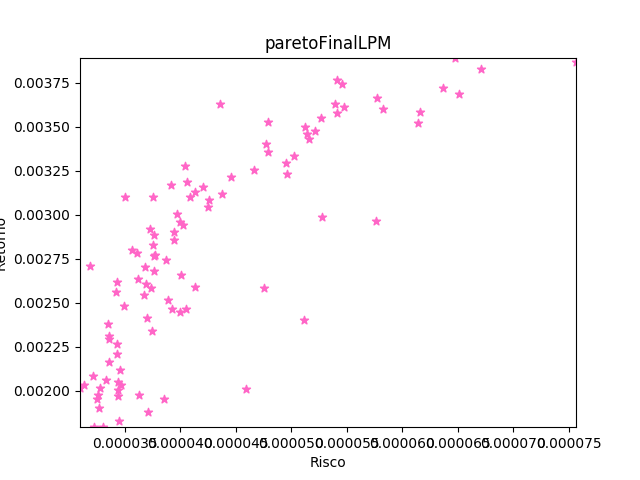
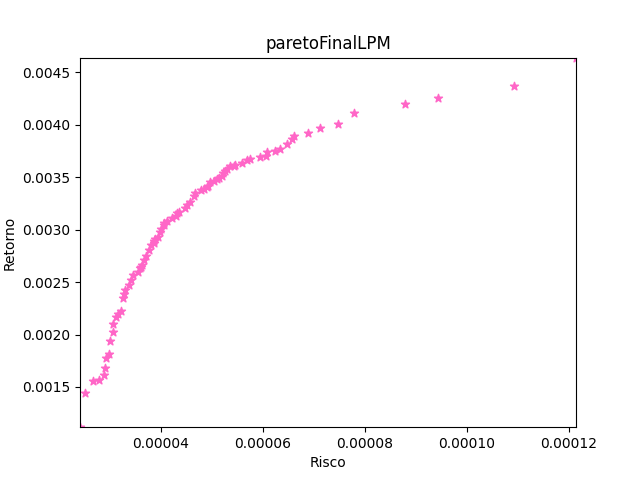
pareto gui

diff --git a/direto/nsga2.py b/direto/nsga2.py
@@ -38,17 +38,15 @@ def main():
     solucao_final = []
   
     #pontos = [cvar, var, ewma, garch, lpm]
-    
-    for i in range(QUANTIDADE_METRICAS):
-        pontos_x.append([])
-        pontos_y.append([])
-        solucao_final.append(None)
 
     for risco in range(QUANTIDADE_METRICAS):
 
         lista_ativos = aux.le_arquivo_retorna_lista_ativos(datas[0], datas[1], False)
         lista_ativos_metrica = metricas.metrica_risco(lista_ativos,risco)
-
+        
+        pontos_x.append([])
+        pontos_y.append([])
+        solucao_final.append(None)
         x_soma_execucoes = []
         y_soma_execucoes = []
         primeira_execucao = True  
@@ -73,7 +71,7 @@ def main():
             #ITERAÇÕES
             cont=0
             for i in range(ITERACOES):
-                print("RISCO: " + str(risco) + " EXEC: " + str(j) + " ITERACOES: " + str(cont))
+                print("RISCO: " + str(risco + 1) + " EXEC: " + str(j + 1) + " ITERACOES: " + str(cont + 1))
                 cont+=1
                 pop = operadores.otimiza(pop_filtrada, lista_ativos_metrica)
                 pop_filtrada = pop.copy()
@@ -86,9 +84,12 @@ def main():
                 x_iteracao.append(carteira.getRisco())
                 y_iteracao.append(carteira.getRetorno())   
             
+            x_iteracao.sort()
+            y_iteracao.sort()
+
             if primeira_execucao:
-                x_soma_execucoes = copy.copy(x_iteracao)
-                y_soma_execucoes = copy.copy(y_iteracao)
+                x_soma_execucoes = x_iteracao
+                y_soma_execucoes = y_iteracao
                 primeira_execucao = False
             else:
                 for i in range(len(pop_filtrada)):
@@ -96,17 +97,20 @@ def main():
                     y_soma_execucoes[i] += y_iteracao[i]
 
         #GRAFICO FINAL DA EXECUÇÃO
-        for j in range(len(pop_filtrada)):
-            x_soma_execucoes[j]/=EXECUCOES
-            y_soma_execucoes[j]/=EXECUCOES
+        for i in range(len(pop_filtrada)):
+            x_soma_execucoes[i]/=EXECUCOES
+            y_soma_execucoes[i]/=EXECUCOES
         
         pontos_x[risco] = x_soma_execucoes
         pontos_y[risco] = y_soma_execucoes
         
+        # print('soma', x_soma_execucoes)
+        # print('pontos', pontos_x)
+        # print()
     
-    for i in solucao_final:
-        i.printCarteira()
-        print()
+    # for i in solucao_final:
+    #     i.printCarteira()
+    #     print()
 
 
     grafico.grafico_tempo_barras(solucao_final, lista_ativos_grafico, lista_ibovespa_grafico)
@@ -114,11 +118,11 @@ def main():
     grafico.grafico_tempo(solucao_final, aux.le_arquivo_retorna_lista_ativos(datas_grafico[0], datas_grafico[len(datas_grafico)-1], False),
     aux.le_arquivo_retorna_lista_ativos(datas_grafico[0], datas_grafico[len(datas_grafico)-1], True))
     
-    grafico.grafico_risco_retorno(pontos_x[0], pontos_y[0], "paretoFinalCVaR")
-    grafico.grafico_risco_retorno(pontos_x[1], pontos_y[1], "paretoFinalVaR")
-    grafico.grafico_risco_retorno(pontos_x[2], pontos_y[2], "paretoFinalEWMA")
-    grafico.grafico_risco_retorno(pontos_x[3], pontos_y[3], "paretoFinalGARCH")
-    grafico.grafico_risco_retorno(pontos_x[4], pontos_y[4], "paretoFinalLPM")
+    pareto_dos_riscos = ['paretoFinalCVaR', 'paretoFinalVaR', 'paretoFinalEWMA', 'paretoFinalGARCH', 'paretoFinalLPM']
+
+    for i in range(len(pontos_x)):
+        grafico.grafico_risco_retorno(pontos_x[i], pontos_y[i], pareto_dos_riscos[i])   
+    
     
 if __name__ == "__main__":
     main()

diff --git a/semestral/nsga2.py b/semestral/nsga2.py
@@ -50,18 +50,14 @@ def main():
         pontos_y = []
         solucao_final = []
         
-
-        #pontos = [cvar, var, ewma, garch, lpm]
-        
-        for i in range(QUANTIDADE_METRICAS):
-            pontos_x.append([])
-            pontos_y.append([])
-            solucao_final.append(None)
+        #pontos = [cvar, var, ewma, garch, lpm
 
         
         for risco in range(QUANTIDADE_METRICAS):
             lista_ativos = metricas.metrica_risco(lista_ativos,risco)
-            
+            pontos_x.append([])
+            pontos_y.append([])
+            solucao_final.append(None)
             primeira_execucao = True  
             x_soma_execucoes = []
             y_soma_execucoes = [] 
@@ -93,9 +89,11 @@ def main():
                     x_iteracoes.append(carteira.getRisco())
                     y_iteracoes.append(carteira.getRetorno())   
                 
+                x_iteracoes.sort()
+                y_iteracoes.sort()
                 if primeira_execucao:
-                    x_soma_execucoes = copy.copy(x_iteracoes)
-                    y_soma_execucoes = copy.copy(y_iteracoes)
+                    x_soma_execucoes = x_iteracoes
+                    y_soma_execucoes = y_iteracoes
                     primeira_execucao = False
                 else:
                     for i in range(len(pop_filtrada)):
@@ -103,7 +101,7 @@ def main():
                         y_soma_execucoes[i] += y_iteracoes[i] 
 
             #GRAFICO FINAL DA EXECUÇÃO
-            for j in range(len(pop_filtrada)):
+            for j in range(len(x_soma_execucoes)):
                 x_soma_execucoes[j]/=EXECUCOES
                 y_soma_execucoes[j]/=EXECUCOES
             
@@ -112,6 +110,7 @@ def main():
         
         pontos_x_por_semestre.append(pontos_x)
         pontos_y_por_semestre.append(pontos_y)
+        
         solucao_final_por_semestre.append(solucao_final)
     
     index = 0
@@ -131,15 +130,19 @@ def main():
     print("Trocou = ", str(cont), " Vezes")
  
     grafico_tempo_barras(solucao_final_por_semestre, lista_ativos_semestral, lista_ibovespa_semestral)
-    
     grafico_tempo(solucao_final, lista_ativos_proximo_semestre, lista_ibovespa_proximo_semestre)
     
-    grafico_risco_retorno(pontos_x[0], pontos_y[0], "paretoFinalCVaR")
+    pareto_dos_riscos = ['paretoFinalCVaR', 'paretoFinalVaR', 'paretoFinalEWMA', 'paretoFinalGARCH', 'paretoFinalLPM']
+
+    for i in range(len(pontos_x)):
+        grafico_risco_retorno(pontos_x[i], pontos_y[i], pareto_dos_riscos[i])   
+
+    # grafico_risco_retorno(pontos_x[0], pontos_y[0], "paretoFinalCVaR")
     
-    grafico_risco_retorno(pontos_x[1], pontos_y[1], "paretoFinalVaR")
-    grafico_risco_retorno(pontos_x[2], pontos_y[2], "paretoFinalEWMA")
-    grafico_risco_retorno(pontos_x[3], pontos_y[3], "paretoFinalGARCH")
-    grafico_risco_retorno(pontos_x[4], pontos_y[4], "paretoFinalLPM")
+    # grafico_risco_retorno(pontos_x[1], pontos_y[1], "paretoFinalVaR")
+    # grafico_risco_retorno(pontos_x[2], pontos_y[2], "paretoFinalEWMA")
+    # grafico_risco_retorno(pontos_x[3], pontos_y[3], "paretoFinalGARCH")
+    # grafico_risco_retorno(pontos_x[4], pontos_y[4], "paretoFinalLPM")
     
 if __name__ == "__main__":
     main()

diff --git a/direto/metricas.py b/direto/metricas.py
@@ -15,8 +15,6 @@ import itertools
 import timeit
 import copy
 
-
-
 def ewma(ativo):
     retornos = aux.retorno(ativo)
     ewma_variance = []
@@ -51,7 +49,7 @@ def var(ativo):
     var99 = ret_ord[ceil((1-(99/100))*total_count)]
     var999 = ret_ord[ceil((1-(99.9/100))*total_count)]
 
-    return [(-var95), (-var99), (-var999)]
+    return [abs(var95), abs(var99), abs(var999)]
     
 
 def cvar(ativo):
@@ -59,11 +57,11 @@ def cvar(ativo):
     ret_ord.sort()
     total_count = len(ret_ord)
 
-    cvar95 = -((1/((1-(95/100))*total_count))*aux.soma_aux(ret_ord, ceil((1-(95/100))*total_count)))
-    cvar99 = -((1/((1-(99/100))*total_count))*aux.soma_aux(ret_ord, ceil((1-(99/100))*total_count)))
-    cvar999 = -((1/((1-(99.9/100))*total_count))*aux.soma_aux(ret_ord, ceil((1-(99.9/100))*total_count)))
+    cvar95 = ((1/((1-(95/100))*total_count))*aux.soma_aux(ret_ord, ceil((1-(95/100))*total_count)))
+    cvar99 = ((1/((1-(99/100))*total_count))*aux.soma_aux(ret_ord, ceil((1-(99/100))*total_count)))
+    cvar999 = ((1/((1-(99.9/100))*total_count))*aux.soma_aux(ret_ord, ceil((1-(99.9/100))*total_count)))
 
-    return [(cvar95), (cvar99), (cvar999)]
+    return [abs(cvar95), abs(cvar99), abs(cvar999)]
 
 
 def metrica_risco(lista_ativos, valor):

diff --git a/semestral/metricas.py b/semestral/metricas.py
@@ -48,26 +48,19 @@ def var(ativo):
     var99 = ret_ord[ceil((1-(99/100))*total_count)]
     var999 = ret_ord[ceil((1-(99.9/100))*total_count)]
 
-    return [(-var95), (-var99), (-var999)]
+    return [abs(var95), abs(var99), abs(var999)]
     
-
-def soma_aux(retorno, indice):
-    s = 0
-    for i in range(indice):
-        s+= retorno[i]
-    return s
 
 def cvar(ativo):
     ret_ord = aux.retorno(ativo)
     ret_ord.sort()
     total_count = len(ret_ord)
 
-    cvar95 = -((1/((1-(95/100))*total_count))*soma_aux(ret_ord, ceil((1-(95/100))*total_count)))
-    cvar99 = -((1/((1-(99/100))*total_count))*soma_aux(ret_ord, ceil((1-(99/100))*total_count)))
-    cvar999 = -((1/((1-(99.9/100))*total_count))*soma_aux(ret_ord, ceil((1-(99.9/100))*total_count)))
+    cvar95 = ((1/((1-(95/100))*total_count))*aux.soma_aux(ret_ord, ceil((1-(95/100))*total_count)))
+    cvar99 = ((1/((1-(99/100))*total_count))*aux.soma_aux(ret_ord, ceil((1-(99/100))*total_count)))
+    cvar999 = ((1/((1-(99.9/100))*total_count))*aux.soma_aux(ret_ord, ceil((1-(99.9/100))*total_count)))
 
-    return [(cvar95), (cvar99), (cvar999)]
-
+    return [abs(cvar95), abs(cvar99), abs(cvar999)]
 
 def metrica_risco(lista_ativos, valor):
 

diff --git a/semestral/operadores.py b/semestral/operadores.py
@@ -151,7 +151,7 @@ def crowding_distance(fronteira):
                 (pop_ord[j+1].getDist_crowd() - pop_ord[j-1].getDist_crowd())/(pop_ord[n-1].getRetorno() - pop_ord[0].getRetorno()))
         
         else:
-            pop_ord = sorted(fronteira, key=riscoKey, reverse=True)
+            pop_ord = sorted(fronteira, key=riscoKey)
             pop_ord[0].setDist_crowd(sys.maxsize)
             pop_ord[n-1].setDist_crowd(sys.maxsize)
             for j in range(1, n-2, 1):
@@ -191,8 +191,3 @@ def filtragem(populacao_entrada, primeira_iteracao):
 
     return pop
 
-
-def otimiza(populacao_filtrada, lista_ativos):
-    popCrossover = crossover(populacao_filtrada)
-    populacaoMutada = mutacao(popCrossover, lista_ativos)
-    return filtragem(populacaoMutada, False).copy()

diff --git a/direto/aux.py b/direto/aux.py
@@ -131,14 +131,11 @@ def escolhe_ativo(carteira, lista_ativos):
             return novoAtivo1
         else:
             verifica = True
-            
-            
 def retorno(ativo):
     retorno = []
     for i in range(len(ativo) -1):
         retorno.append((ativo[i+1] - ativo[i]) / ativo[i])
     return retorno
-
 
 def retorno_acumulado(ativo):
     retorno = []
@@ -149,7 +146,6 @@ def retorno_acumulado(ativo):
             retorno.append(retorno[i-1]+((ativo[i+1]  / ativo[i]) -1 )* 100)
 
     return retorno
-
 
 def soma_aux(retorno, indice):
     s = 0
@@ -194,6 +190,7 @@ def calcula_cotacoes_carteira(carteira, lista):
             y[i] += matriz[ativo][i]
 
     return y
+
 
 def desvio_padrao(lista):
     n = len(lista)

diff --git a/direto/operadores.py b/direto/operadores.py
@@ -155,7 +155,7 @@ def crowding_distance(fronteira):
                 (pop_ord[j+1].getDist_crowd() - pop_ord[j-1].getDist_crowd())/(pop_ord[n-1].getRetorno() - pop_ord[0].getRetorno()))
         
         else:
-            pop_ord = sorted(fronteira, key=riscoKey, reverse=True)
+            pop_ord = sorted(fronteira, key=riscoKey)
             pop_ord[0].setDist_crowd(sys.maxsize)
             pop_ord[n-1].setDist_crowd(sys.maxsize)
             for j in range(1, n-2, 1):

diff --git a/semestral/aux.py b/semestral/aux.py
@@ -212,3 +212,9 @@ def calcula_preco_final_carteira(carteira, lista_ativos_semestre):
     preco = calcula_cotacoes_carteira(carteira, lista_ativos_semestre)
     tam = len(preco) - 1
     return preco[tam]
+
+def soma_aux(retorno, indice):
+    s = 0
+    for i in range(indice):
+        s+= retorno[i]
+    return s

diff --git a/semestral/globais.py b/semestral/globais.py
@@ -1,7 +1,7 @@
-TAM_POP = 100
+TAM_POP = 80
 CARDINALIDADE = 9
 ITERACOES = 100
-EXECUCOES = 10
+EXECUCOES = 5
 QUANTIDADE_ATIVOS = 62
 QUANTIDADE_METRICAS = 5
 PROBABILIDADE_MUTACAO = 0.1

diff --git a/direto/globais.py b/direto/globais.py
@@ -1,7 +1,7 @@
 TAM_POP = 100
 CARDINALIDADE = 9
 ITERACOES = 100
-EXECUCOES = 10
+EXECUCOES = 20
 QUANTIDADE_ATIVOS = 62
 QUANTIDADE_METRICAS = 5
 PROBABILIDADE_MUTACAO = 0.1
